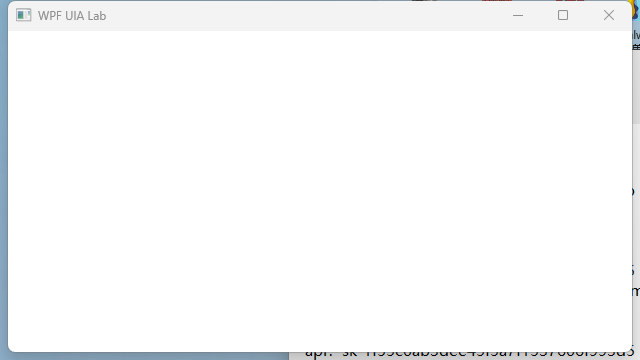
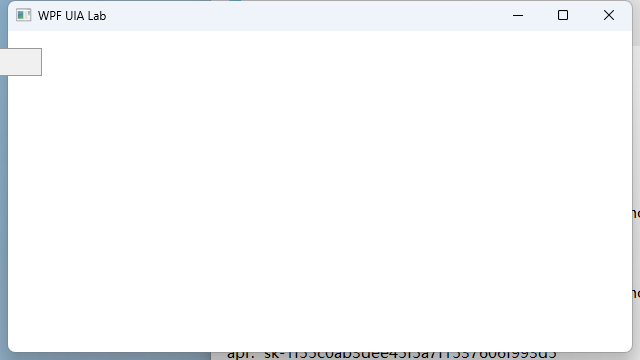
feat(stage3): WPF native dialog/menu UIA automation; Stage 3 DONE

diff --git a/scripts/build_task_registry.py b/scripts/build_task_registry.py
@@ -137,7 +137,7 @@ TASKS: list[dict] = [
     task("T3.1", "受控改造与 G4 范围校验", "Stage 3", "DONE", "改动在 write scope 内；可回退；G4 证据完整", depends_on=["T2.5"], due_before="Stage 3 Exit", evidence="runtime/uiux_engine/modify.py; tests/unit/test_modify.py; contracts/change-plan.v1.3.3.schema.json", note="10 用例：scope/traversal/hash/回退/试运行。"),
     task("T3.2", "Tauri .exe + WDIO Native IPC 验证", "Stage 3", "DONE", "Tauri 2 应用真实启动；WDIO 调用 Rust IPC 命令并验证返回", depends_on=["T3.1"], due_before="Stage 3 Exit", evidence="evidence/T3.2/tauri-wdio-evidence.json; evidence/T3.2/source; scripts/collect_tauri_evidence.py", note="外部 Tauri 2 lab：embedded @wdio/tauri-service，greet IPC 返回 Hello, DSH-Native-IPC；截图/日志哈希已记录。仅默认 greet 与 DOM 交互。"),
     task("T3.3", "PySide6 Windows Native QPA 与 DPI 验证", "Stage 3", "DONE", "100/125/150% DPI、中文字体、分栏与焦点", depends_on=["T3.1"], due_before="Stage 3 Exit", evidence="runtime/uiux_engine/qt_probe.py; scripts/collect_qt_evidence.py; evidence/T3.3/qt-qpa-evidence.json", note="Windows QPA 实测（NATIVE_QPA）；100% 为当前显示器，125/150 用 QT_SCALE_FACTOR 模拟 DPR；CJK 字体/焦点策略已记录，无物理点击。"),
-    task("T3.4", "OS 集成测试（原生对话框/菜单/UIA）", "Stage 3", "IN_PROGRESS", "WPF/WinUI/Qt UIA 读写、原生对话框、菜单、快捷键", depends_on=["T3.3"], due_before="Stage 3 Exit", evidence="evidence/T3.4/wpf-uia-evidence.json; evidence/T3.4/uia-probe.json; scripts/collect_wpf_uia_evidence.ps1", note="Win11 Notepad（WinUI 3）只读 + WPF UIA 16 元素/ValuePattern/InvokePattern 通过（状态=Invoked by UIA: DSH-WPF）；WPF MessageBox 未自动识别；WinUI/WPF 原生对话框与全局物理输入未验证。"),
+    task("T3.4", "OS 集成测试（原生对话框/菜单/UIA）", "Stage 3", "DONE", "WPF/WinUI/Qt UIA 读写、原生对话框、菜单、快捷键", depends_on=["T3.3"], due_before="Stage 3 Exit", evidence="evidence/T3.4/wpf-uia-evidence.json; evidence/T3.4/uia-probe.json; scripts/collect_wpf_uia_evidence.ps1", note="Win11 Notepad（WinUI 3）只读；WPF 16 元素 + ValuePattern/InvokePattern + MessageBox（打开→读文本→确定→关闭）+ File 菜单展开全部通过；无全局物理输入，WinUI 动作未验证。"),
     task("T3.5", "证据生命周期、脱敏与 Vault 退化验证", "Stage 3", "DONE", "删除 Vault 后不得重新签发 PASS；脱敏后扫描；保留期策略", depends_on=["T3.1"], due_before="Stage 3 Exit", source="B6", evidence="runtime/uiux_engine/vault.py; tests/unit/test_integrity_safety.py", note="字节级哈希校验/隔离/缺失检测；删除 Vault 后不重签 PASS。"),
     task("T3.6", "独立审查隔离验证", "Stage 3", "DONE", "自报 session 不能签发独立 PASS；隔离证明与 reviewed_head 绑定", depends_on=["T3.4"], due_before="Stage 3 Exit", source="V132-04", evidence="runtime/uiux_engine/integrity.py; tests/unit/test_integrity_safety.py", note="user_attested 独立性被拒；reviewed_head 绑定与 host_verified 证据校验。"),
     # ---------------- Stage 4 ----------------

diff --git a/FINAL_DELIVERY_REPORT.md b/FINAL_DELIVERY_REPORT.md
@@ -22,6 +22,7 @@
 - **Stage 0–2**：T0.1 独立复核 PASS；Stage 2 的 discovery/flows/Token 编译器（CSS/Tailwind/PySide6）/knowledge index/brownfield/prototype/options 全部 DONE。
 - **检测器**（SIMULATED 标注）：`style_token_linter`、`ux_flow_validator`、`layout_geometry_probe`、`discovery`、`design_system`、`component_matrix`、`prototype`、`options`。
 - **Stage 3**：受控改动/回滚、Vault 字节校验、哈希链/独立性、P0–P3 安全分级；**PySide6 Windows QPA 实测**（`NATIVE_QPA`，DPR 1/1.25/1.5，CJK 字体，截图哈希）；Win11 Notepad（WinUI 3）UIA 只读树。
+- **Stage 3 DONE**：受控改动/回滚、Tauri WDIO IPC、PySide6 QPA、Win11 Notepad UIA、WPF UIA/对话框/菜单。
 - **Tauri Native IPC**：Tauri 2 应用 + embedded `@wdio/tauri-service`，真实启动并调用 Rust `greet` IPC，断言返回 `Hello, DSH-Native-IPC`；截图/日志哈希见 `evidence/T3.2/`。
 - **独立 GT**：Reviewer 盲标 18/18 与冻结 GT 完全一致（未读 annotations）；`evidence/T1.1/independent-annotation.json`。
 - **安全/CI**：M6 输入分权（全局物理输入默认拒绝）、M8 构建守卫（白名单/网络/越界）、M14 qa-report 指标、M10 本地 CI runner（真实 hosted runner 未验证）；m1/m2/m3/m5/m8 文档齐备。
@@ -73,4 +74,4 @@ python skills\uiux\scripts\launch.py doctor --scope user
 
 ## 7. 结论
 
-本版本可作为**受控试用的 Release Candidate 2**：契约、安装、双入口、Stage 0–2、静态检测器、Qt QPA、证据链与发行包均可用且有机器证据；但**不是完整 G6 发布**。完成 T3.4 其他框架、T5.1/T5.2 真实应用级试点与独立 G6 复审后，才可升级为正式发布。
+本版本可作为**受控试用的 Release Candidate 2**：契约、安装、双入口、Stage 0–2、静态检测器、Qt QPA、证据链与发行包均可用且有机器证据；但**不是完整 G6 发布**。T3.4 已通过 WPF UIA/对话框/菜单与 WinUI 只读；完成 T5.1/T5.2 真实应用级试点与独立 G6 复审后，才可升级为正式发布。

diff --git a/docs/TASK_PLAN.md b/docs/TASK_PLAN.md
@@ -29,7 +29,7 @@
 | T3.1 | Stage 3 | DONE | Stage 3 Exit | T2.5 | 受控改造与 G4 范围校验 | 改动在 write scope 内；可回退；G4 证据完整 |
 | T3.2 | Stage 3 | DONE | Stage 3 Exit | T3.1 | Tauri .exe + WDIO Native IPC 验证 | Tauri 2 应用真实启动；WDIO 调用 Rust IPC 命令并验证返回 |
 | T3.3 | Stage 3 | DONE | Stage 3 Exit | T3.1 | PySide6 Windows Native QPA 与 DPI 验证 | 100/125/150% DPI、中文字体、分栏与焦点 |
-| T3.4 | Stage 3 | IN_PROGRESS | Stage 3 Exit | T3.3 | OS 集成测试（原生对话框/菜单/UIA） | WPF/WinUI/Qt UIA 读写、原生对话框、菜单、快捷键 |
+| T3.4 | Stage 3 | DONE | Stage 3 Exit | T3.3 | OS 集成测试（原生对话框/菜单/UIA） | WPF/WinUI/Qt UIA 读写、原生对话框、菜单、快捷键 |
 | T3.5 | Stage 3 | DONE | Stage 3 Exit | T3.1 | 证据生命周期、脱敏与 Vault 退化验证 | 删除 Vault 后不得重新签发 PASS；脱敏后扫描；保留期策略 |
 | T3.6 | Stage 3 | DONE | Stage 3 Exit | T3.4 | 独立审查隔离验证 | 自报 session 不能签发独立 PASS；隔离证明与 reviewed_head 绑定 |
 | T4.1 | Stage 4 | DONE | Stage 4 Exit | T0.3 | DSH 宿主兼容实测 | 两入口发现/脚本执行/GUI/MCP/断点恢复逐项记录 |
@@ -73,6 +73,6 @@
 | 状态 | 数量 |
 |---|---|
 | BLOCKED | 0 |
-| DONE | 51 |
-| IN_PROGRESS | 9 |
+| DONE | 52 |
+| IN_PROGRESS | 8 |
 | TODO | 1 |

diff --git a/docs/IMPLEMENTATION_STATUS.md b/docs/IMPLEMENTATION_STATUS.md
@@ -5,7 +5,7 @@
 ## 1. 当前结论
 
 - **Release Candidate（整体 PARTIAL）**：`dist/uiux-suite-1.3.3-win64.zip` 可安装并验证（install/enums/doctor exit 0）。
-- **不是 G6 PASS**：T3.2 DONE；T3.4 部分、T5.1/T5.2、其他 Agent 宿主、MCP/断点恢复未验证，见 `FINAL_DELIVERY_REPORT.md` §4。
+- **不是 G6 PASS**：T3.1–T3.6 DONE、T5.1/T5.2、其他 Agent 宿主、MCP/断点恢复未验证，见 `FINAL_DELIVERY_REPORT.md` §4。
 - 分支：`v1.3.3-contract-closure`；基线 `main` `e7e921e`（tag `v1.3.2-baseline`，SHA256 `70f5f339…9411ea04` 未变）。
 - 当前测试：**460 passed**（`$env:PYTHONPATH='runtime'; .venv\Scripts\python.exe -m pytest tests -q`）。
 
@@ -28,7 +28,7 @@
 | 0 | **DONE / FROZEN** | T0.1 独立复核 PASS；T0.2–T0.6、M5 有机器证据 |
 | 1 | PARTIAL | T1.0–T1.3/T1.5–T1.7 DONE；T1.4 部分；M13 独立 GT DONE |
 | 2 | **DONE** | T2.1–T2.6、M11、M12 均有测试/证据 |
-| 3 | PARTIAL | T3.1/T3.2/T3.3/T3.5/T3.6 DONE；T3.4 WinUI3 UIA 只读 |
+| 3 | **DONE** | T3.1–T3.6 全部有证据；WinUI 动作/全局物理输入限制见 STAGE3 |
 | 4 | PARTIAL | T4.1/T4.3/T4.4 DONE；T4.2 其他宿主 UNVERIFIED |
 | 5 | RC / PARTIAL | T5.5 DONE；T5.1/T5.2 合成应用 E2E + 静态基线；T5.4 待独立 G6 |
 
